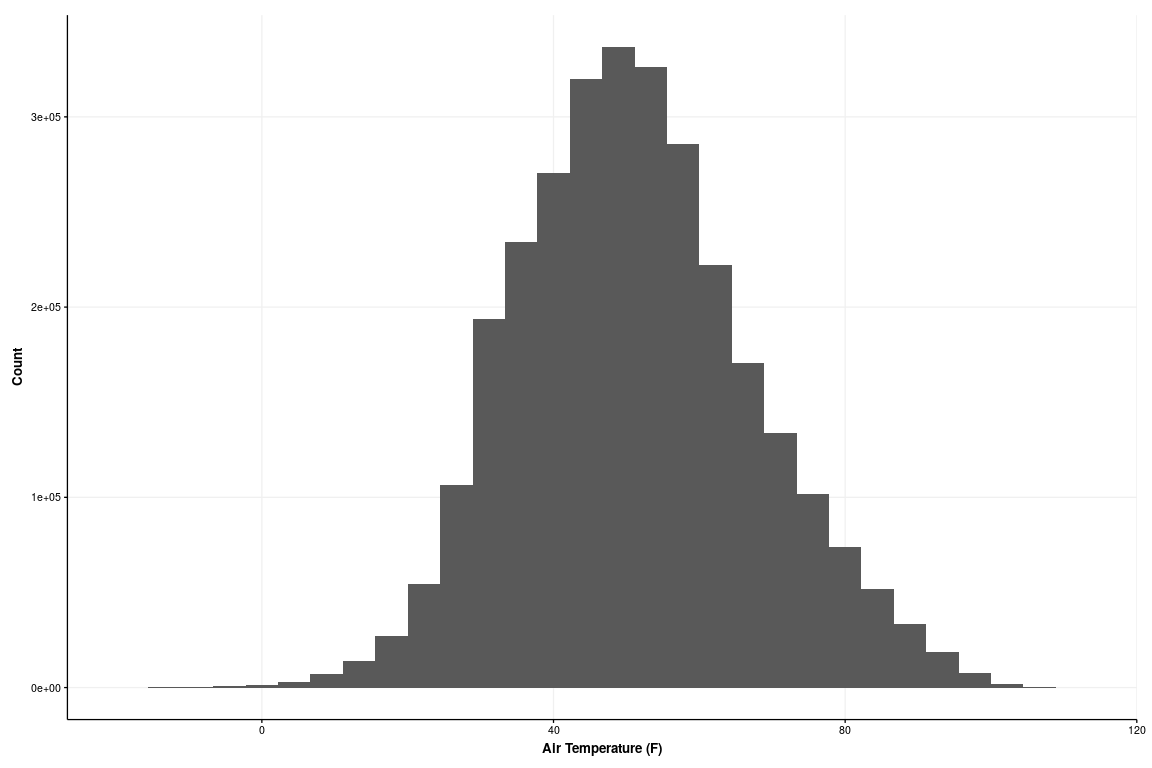
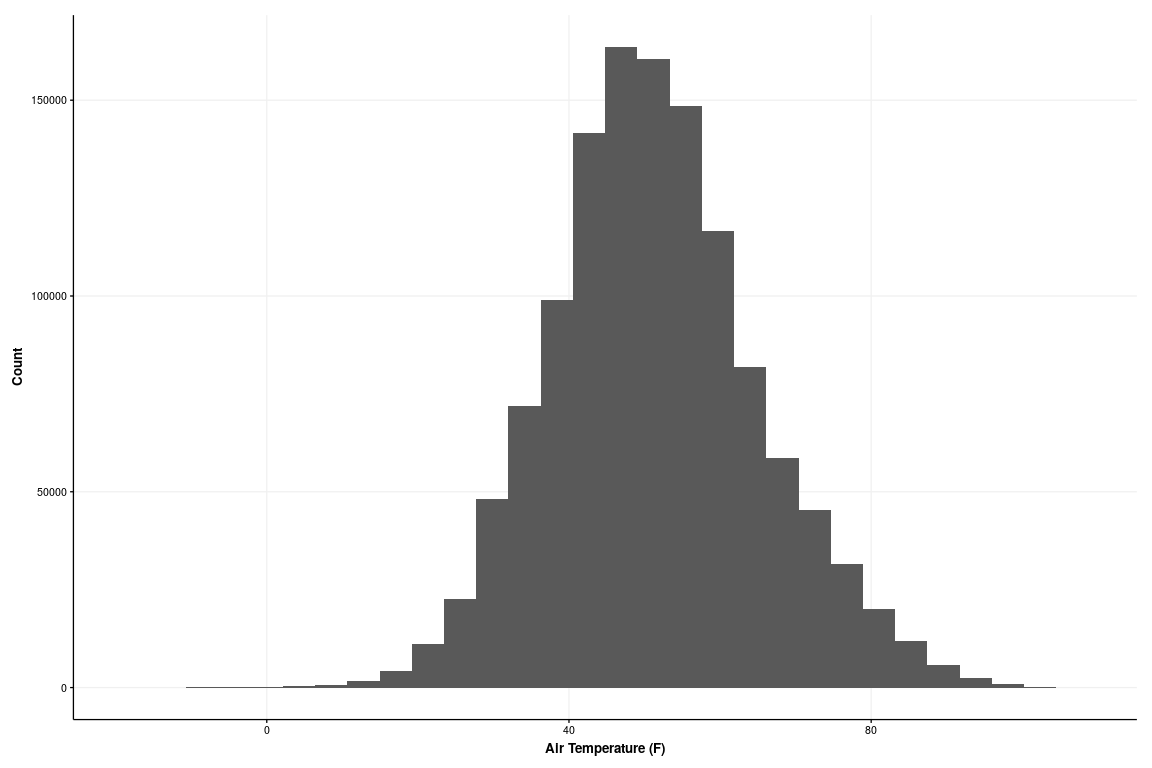
Add density plots

diff --git a/WA-PM-Heat-Episodes.md b/WA-PM-Heat-Episodes.md
@@ -3,92 +3,130 @@ Washington PM2.5 and Heat Episides, 2010-2018
 
 ## METHODS
 
-### Heat Episodes
+### Heat
 
   - Requested AWN data (with data QA date pre-2010) from locations
     nearest EPA PM sites for 2010-2018
-  - 38 sites
-  - Computed heat index
+  - Computed heat index using Rothfusz approach
 
-### PM Episodes
+### PM2.5
 
   - Downloaded [EPA PM data for
     2010-2018](#https://aqs.epa.gov/aqsweb/airdata/download_files.html)
-  - 24/27 sites
-  - Merged with heat episode data
+  - Merged with heat data
   - Computed nearest Haversine distance between AWN and EPA sites
 
 ### Plots
 
-  - Histograms for temp, relative humidity, and PM2.5 (PM2.5 FRM/FEM
-    Mass (88101))
+  - Histograms for temp, relative humidity, heat index, and PM2.5 (PM2.5
+    FRM/FEM Mass (88101))
+  - Density plots
   - Time series
-  - Scatter plot of heat index vs. PM, 2018-2018 by location (n=24)
+  - Scatter plot of heat index vs. PM, 2010-2018 by location (n=24)
 
 ### Maps
+
+  - Ag worker population by county
+  - PM \* HI by county
 
 ## RESULTS
 
 ``` r
-ggplot(awn.1h, aes(x=AIR_TEMP_F))            + geom_histogram() + theme_HEI(10) + xlab("Air Temperature (F)") + ylab("Count")
+n.am.asd.gm.gsd(epa.awn.final.wide$Sample.Measurement)
 ```
 
-    ## Warning: `legend.margin` must be specified using `margin()`. For the old
-    ## behavior use legend.spacing
+    ##             N            AM           ASD            GM           GSD 
+    ##  1.249088e+06  7.391722e+00  9.896051e+00           Inf           Inf 
+    ##           Min           Max 
+    ## -1.000000e+01  5.976000e+02
 
-    ## `stat_bin()` using `bins = 30`. Pick better value with `binwidth`.
+``` r
+n.am.asd.gm.gsd(epa.awn.final.wide$hi)
+```
+
+    ##             N            AM           ASD            GM           GSD 
+    ## 1249088.00000      49.86747      14.44313           Inf           Inf 
+    ##           Min           Max 
+    ##     -26.69325     107.98591
+
+``` r
+ggplot(epa.awn.final.wide, aes(x=AIR_TEMP_F))            + geom_histogram() + theme_HEI(10) + xlab("Air Temperature (F)") + ylab("Count")
+```
 
 ![](WA-PM-Heat-Episodes_files/figure-gfm/histograms.temp.rh.hi-1.png)<!-- -->
 
 ``` r
-ggplot(awn.1h, aes(x=`RELATIVE_HUMIDITY_%`)) + geom_histogram() + theme_HEI(10) + xlab("Relative Humidity (%)") + ylab("Count")
+ggplot(epa.awn.final.wide, aes(x=`RELATIVE_HUMIDITY_%`)) + geom_histogram() + theme_HEI(10) + xlab("Relative Humidity (%)") + ylab("Count")
 ```
-
-    ## Warning: `legend.margin` must be specified using `margin()`. For the old
-    ## behavior use legend.spacing
-
-    ## `stat_bin()` using `bins = 30`. Pick better value with `binwidth`.
 
 ![](WA-PM-Heat-Episodes_files/figure-gfm/histograms.temp.rh.hi-2.png)<!-- -->
 
 ``` r
-ggplot(awn.1h, aes(x=hi))                    + geom_histogram() + theme_HEI(10) + xlab("Heat Index") + ylab("Count")
+ggplot(epa.awn.final.wide, aes(x=hi))                    + geom_histogram() + theme_HEI(10) + xlab("Heat Index") + ylab("Count")
 ```
-
-    ## Warning: `legend.margin` must be specified using `margin()`. For the old
-    ## behavior use legend.spacing
-
-    ## `stat_bin()` using `bins = 30`. Pick better value with `binwidth`.
 
 ![](WA-PM-Heat-Episodes_files/figure-gfm/histograms.temp.rh.hi-3.png)<!-- -->
 
 ``` r
-#ggplot(data = awn.1h, mapping = aes(x = datetime, y = AIR_TEMP_F))            + geom_line() +  facet_wrap(facets =  vars(Site))
-#ggplot(data = awn.1h, mapping = aes(x = datetime, y = `RELATIVE_HUMIDITY_%`)) + geom_line() +  facet_wrap(facets =  vars(Site))
-#ggplot(data = awn.1h, mapping = aes(x = datetime, y = hi))                    + geom_line() +  facet_wrap(facets =  vars(Site))
-
-#temp1 <- ggplot(jun10.temp, aes(x = time, y = value, color=factor(variable, labels = c("15-min Avg @ 2m", "1-min Avg @ 3m", "1-min Avg @ 10m", "10-sec Avg @ 10m")))) + geom_line(size=1, alpha=0.5) + ggtitle('') + xlab("") + ylab("Temperature (°C)") + scale_y_continuous(limits = c(12.5, 21)) + scale_x_datetime(date_breaks = "10 min", labels=date_format("%H:%M", tz = "")) + theme(legend.position="bottom", plot.title = element_text(hjust = 0.5), legend.title = element_blank()) + ggtitle("June 10, 2016") + theme_HEI(base_size=10)
-
-
-#load("Data/hourly_88101_2010-2018_WA.Rdata")
+ggplot(epa.awn.final.wide, aes(x=Sample.Measurement))    + geom_histogram() + theme_HEI(10) + xlab("PM2.5 µg/m3") + ylab("Count")
 ```
+
+![](WA-PM-Heat-Episodes_files/figure-gfm/histograms.temp.rh.hi-4.png)<!-- -->
+
+``` r
+ggplot(epa.awn.final.wide[!is.na(hi)], aes( `hi`, y=..density..)) + 
+  geom_density() + 
+  geom_vline(xintercept = 80, col = "red") +
+  facet_wrap(~Site, scales = "free") +
+  geom_histogram(aes(y=..density..), alpha=0.5, position="identity") +
+  xlim(0, 100) + 
+  theme_HEI(12) + 
+  xlab("Heat Index")
+```
+
+![](WA-PM-Heat-Episodes_files/figure-gfm/density-plots-1.png)<!-- -->
+
+``` r
+ggplot(epa.awn.final.wide[!is.na(`Sample.Measurement`)], aes( `Sample.Measurement`, y=..density..)) + 
+  geom_density() + 
+  geom_vline(xintercept = 35, col = "red") +
+  facet_wrap(~Site, scales = "free") +
+  geom_histogram(aes(y=..density..), alpha=0.5, position="identity")+
+  xlim(0, 100) + 
+  theme_HEI(12) + 
+  xlab("PM2.5 µg/m3")
+```
+
+![](WA-PM-Heat-Episodes_files/figure-gfm/density-plots-2.png)<!-- -->
 
 ``` r
 ggplot(epa.awn.final.long, aes(x=datetime_PST, y=value, color=factor(variable))) + geom_line() + facet_wrap(facets = vars(Site)) + theme_HEI(12) + xlab("Year") + ylab("")
 ```
 
-    ## Warning: `legend.margin` must be specified using `margin()`. For the old
-    ## behavior use legend.spacing
-
 ![](WA-PM-Heat-Episodes_files/figure-gfm/time.series-1.png)<!-- -->
 
 ``` r
+#All data
+
 ggplot(epa.awn.final.wide, aes(x=hi, y=Sample.Measurement)) + geom_point(size=1) + facet_wrap(facets = vars(Site)) + theme_HEI(12) + xlab("Heat Index") + ylab("PM2.5 µg/m3")
 ```
 
-    ## Warning: `legend.margin` must be specified using `margin()`. For the old
-    ## behavior use legend.spacing
-
 ![](WA-PM-Heat-Episodes_files/figure-gfm/scatter.plots-1.png)<!-- -->
+
+``` r
+#PM data above 35 ug/m3
+
+ggplot(epa.awn.final.wide[epa.awn.final.wide$Sample.Measurement>35], aes(x=hi, y=Sample.Measurement)) + geom_point(size=1) + facet_wrap(facets = vars(Site)) + theme_HEI(12) + xlab("Heat Index") + ylab("PM2.5 µg/m3")
+```
+
+![](WA-PM-Heat-Episodes_files/figure-gfm/scatter.plots-2.png)<!-- -->
+
+``` r
+#Heat index data above 80
+
+ggplot(epa.awn.final.wide[epa.awn.final.wide$hi>80], aes(x=hi, y=Sample.Measurement)) + geom_point(size=1) + facet_wrap(facets = vars(Site)) + theme_HEI(12) + xlab("Heat Index") + ylab("PM2.5 µg/m3")
+```
+
+![](WA-PM-Heat-Episodes_files/figure-gfm/scatter.plots-3.png)<!-- -->
 
 ## REFERENCES
